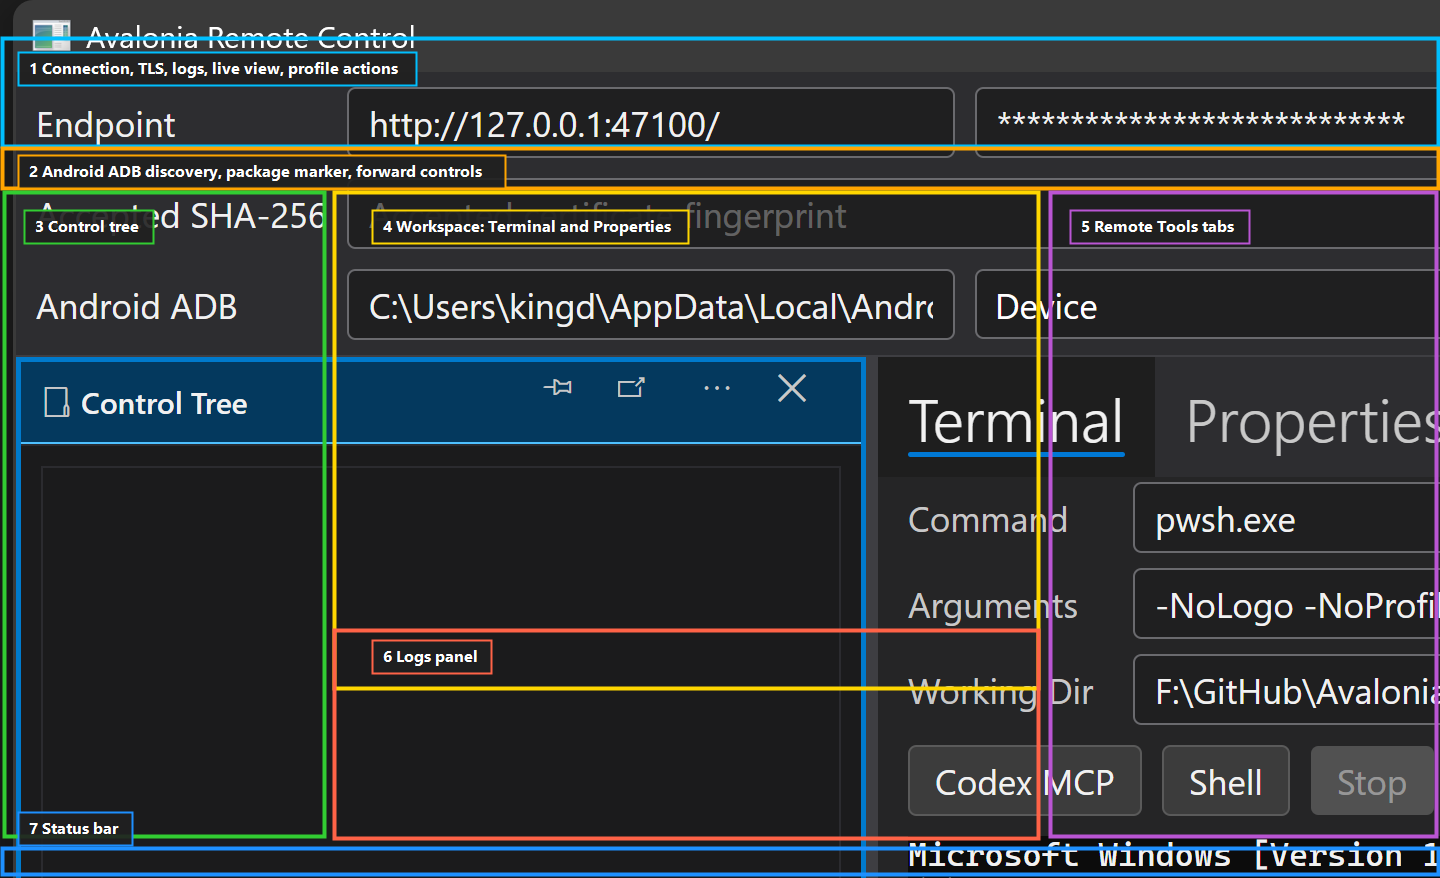
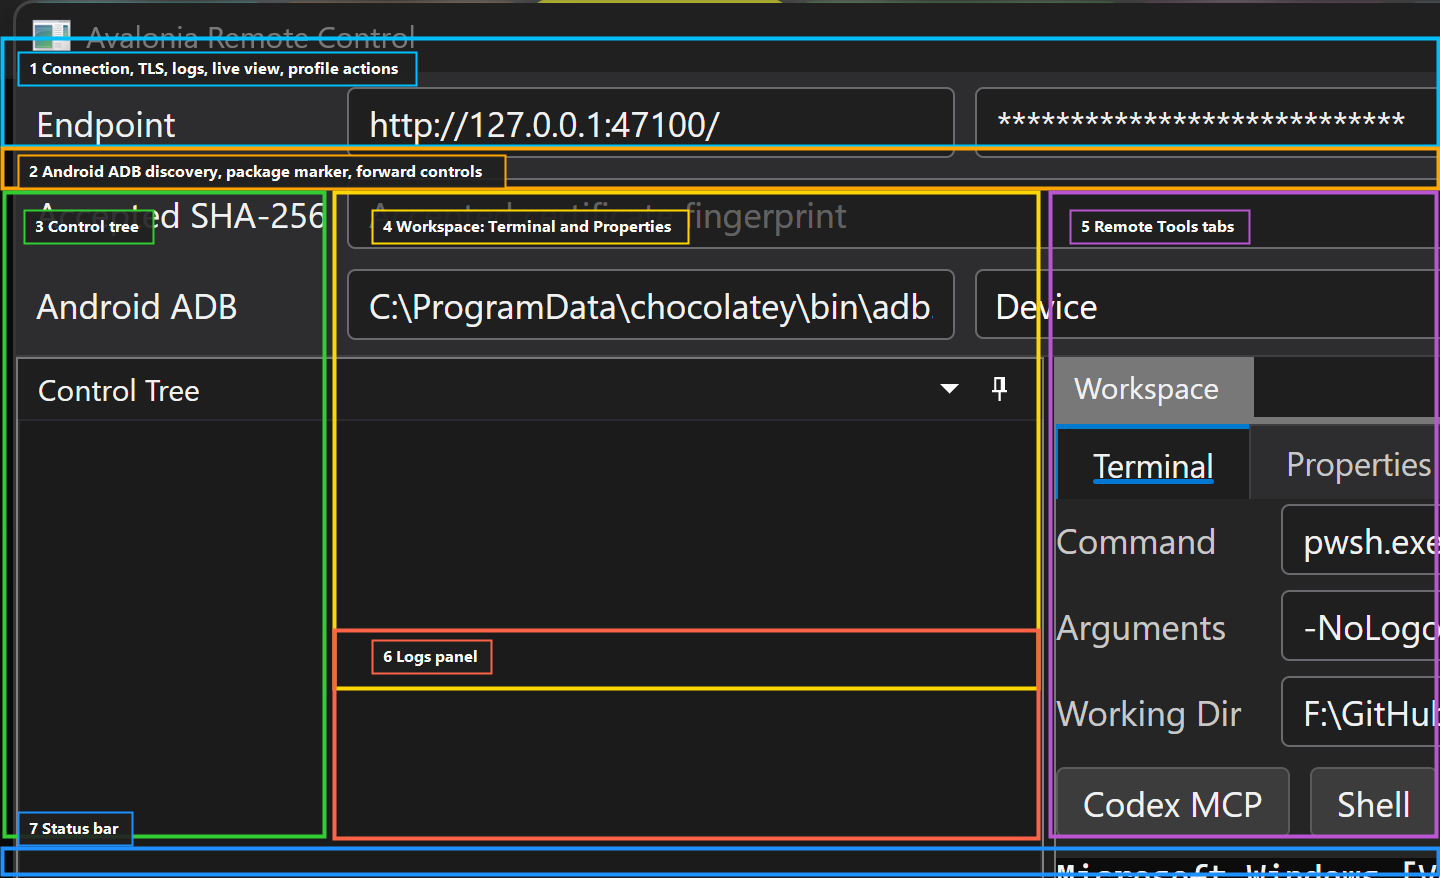
docs(user): document Dock.Avalonia 12 docking UI and refresh screenshots
Update client-tool.md and settings.md to describe the Dock.Avalonia
dockable panes (pin/float/close chrome, drag to rearrange/float/dock,
per-project layout persistence) that replace the removed custom dock
(auto-hide, generic floating tool windows, splitters). Regenerate the
client-tool screenshots against the current Dock build and drop the stale
tool --version pin from install commands.

Changed region(s): [[0.0, 0.3998, 1.0, 1.0], [0.0, 0.0, 1.0, 0.0923], [0.2812, 0.3383, 0.6562, 0.369]]

diff --git a/docs/user/client-tool.md b/docs/user/client-tool.md
@@ -5,7 +5,7 @@
 ## Install
 
 ```powershell
-dotnet tool install --global SharpNinja.Avalonia.RemoteControl.Tool --version 0.7.3
+dotnet tool install --global SharpNinja.Avalonia.RemoteControl.Tool
 ```
 
 ## Launch The Desktop Client
@@ -20,7 +20,7 @@ The client supports:
 - Network/TLS connections.
 - ADB-forwarded Android connections.
 - Tree rendering.
-- Live screenshot rendering in a docked or generic floating tool window when the debuggee enables frame streaming.
+- Live screenshot rendering in a docked or floating live-view pane when the debuggee enables frame streaming.
 - Tree replica rendering in the live window for structural debugging.
 - Pointer, wheel, keyboard, and text input forwarding when the debuggee enables remote input.
 - Selected-node property inspection.
@@ -102,7 +102,7 @@ After a successful connection:
 
 ## Live View
 
-After a successful connection, click Live View to open the live remote UI in a generic floating tool window. To keep the live view inside the main client, open the right-side Live View tab; the same live-view panel can be docked or floated from its tool-window header icons.
+After a successful connection, click Live View to show the Live View pane, docked below Remote Tools on the right. Drag the Live View tab out (or use the pane's float control) to float it in its own window, and drag it back to re-dock; the floating and docked live views share the same rendering and behavior.
 
 The live panel has two modes:
 
@@ -111,7 +111,7 @@ The live panel has two modes:
 
 Clicking a visible control in the live panel selects the matching node in the main Control Tree when the node is present in the latest tree snapshot. The selected live-view overlay outline is highlighted in gold.
 
-The docked and floating live views use the same rendering, overlay, input, and tree-selection behavior. Floating creates a live-view panel in the generic tool-window host without disconnecting the main client.
+The docked and floating live views use the same rendering, overlay, input, and tree-selection behavior. Floating a pane never disconnects the main client.
 
 The overlay checkbox draws the latest tree bounds over either mode. Pointer, wheel, keyboard, and text input are sent in root-relative DIPs so the same live panel works with gRPC and Android bridge sessions.
 
@@ -131,7 +131,7 @@ The client starts streaming `ILogger` entries after a successful connection. Cli
 
 Changing verbosity restarts an active stream with the new minimum level. The log header shows whether the stream is active, how many entries are displayed, and any stream failure.
 
-Click Float, or use the log panel header icon, to open the current log stream in a generic floating tool window. While the floating panel is open, the main window removes the embedded log list so there is only one visible dock owner of the rows. The floating log panel has the same Verbosity selector as the docked log panel; changing either selector updates the shared stream setting and restarts an active stream at the new minimum level. Click the dock icon in the floating tool window or Dock Logs in the main placeholder to return the same shared log view model to the main window. Floating and docking do not start a second stream.
+The Logs pane is docked at the bottom of the workspace. Drag its tab out (or use the pane's float control) to float it in its own window, and drag it back to re-dock. Floating and docking share the same log view model and never start a second stream, and the Verbosity selector continues to control that shared stream.
 
 ## Project Tab
 
@@ -139,6 +139,6 @@ The right-side Project tab shows the active client project, project storage root
 
 ## Dockable Panels
 
-The desktop client uses Visual Studio-like tool-window chrome across the whole shell: compact command bars, dark input fields, tabbed tool panes, darker dock surfaces, draggable pane headers, splitters, thin separators, visible header icons, and a blue accent on active docked surfaces. The styling and behavior are shared by the control tree, property inspector, action/live-view/project pane, log panel, and generic floating tool windows.
+The desktop client docks its panels with [Dock.Avalonia](https://github.com/wieslawsoltes/Dock), styled to match a Visual Studio dark shell: a compact command bar, dark input fields, and dockable tool panes with pin, float, and close controls on their headers. The Control Tree docks to the left, the Workspace document (Terminal and Properties tabs) fills the center above the Logs pane, and Remote Tools sits above Live View on the right.
 
-Each docked surface hosts a custom panel control backed by a view model; the main window is the container that composes panels and coordinates remote-session actions. The main workspace splitters and dock state are persisted in the project file. On startup, the client restores the previous window size, tree pane width, right tool-pane width, log pane height, selected right-side tab, log floating state, dock-pane auto-hide state, and docked live-view preference. If the saved layout had live view docked, the client restores that dock after the next successful connection because live streaming needs an active remote session.
+Drag a pane's tab or header to rearrange it, float it into its own window, or dock it elsewhere, then drag it back to return it to the shell. The full dock layout (pane arrangement, proportions, and floating windows) is saved per project and restored on the next launch, alongside the window size, selected tabs, and docked live-view preference. If the saved layout had live view docked, the client restores that dock after the next successful connection because live streaming needs an active remote session.

diff --git a/docs/user/settings.md b/docs/user/settings.md
@@ -145,7 +145,7 @@ Remote input also depends on this setting. `AllowRemoteInput = true` is not enou
 
 `AllowRemoteFrames`
 
-Enables live PNG frame streaming for the live-view panel, whether it is docked or hosted by a generic floating tool window. The default is false.
+Enables live PNG frame streaming for the live-view panel, whether it is docked or floated into its own window. The default is false.
 
 Frame streaming exposes what the user would see on the target app surface. That may include business data, PII, credentials accidentally shown in UI, map positions, or other sensitive state. Enable it only when the debugging operator is trusted to view the app.
 
@@ -280,7 +280,7 @@ Changing verbosity restarts an active log stream with the new minimum level.
 
 Log floating
 
-The desktop client can open the current log view in a generic floating tool window. The floating panel owns the visible log list while it is open, so the main window shows that logs are floating instead of rendering the same rows twice. Dock returns the same shared log view model to the main window. The stream, verbosity, status text, entry count, and buffered rows are shared, so floating or docking does not restart streaming or duplicate remote log requests.
+The Logs pane can be dragged out of the shell to float in its own window and dragged back to re-dock. The stream, verbosity, status text, entry count, and buffered rows are shared, so floating or docking does not restart streaming or duplicate remote log requests.
 
 Save and Forget
 

diff --git a/docs/user/getting-started.md b/docs/user/getting-started.md
@@ -11,13 +11,13 @@ This guide connects a local Avalonia desktop app to the Avalonia.RemoteControl c
 ## Install The Client Tool
 
 ```powershell
-dotnet tool install --global SharpNinja.Avalonia.RemoteControl.Tool --version 0.7.3
+dotnet tool install --global SharpNinja.Avalonia.RemoteControl.Tool
 ```
 
 Update later with:
 
 ```powershell
-dotnet tool update --global SharpNinja.Avalonia.RemoteControl.Tool --version 0.7.3
+dotnet tool update --global SharpNinja.Avalonia.RemoteControl.Tool
 ```
 
 Verify the command:

diff --git a/docs/user/troubleshooting.md b/docs/user/troubleshooting.md
@@ -7,8 +7,8 @@ For setting-by-setting explanations, see [Settings Guide](settings.md).
 Install or update the .NET tool:
 
 ```powershell
-dotnet tool install --global SharpNinja.Avalonia.RemoteControl.Tool --version 0.7.3
-dotnet tool update --global SharpNinja.Avalonia.RemoteControl.Tool --version 0.7.3
+dotnet tool install --global SharpNinja.Avalonia.RemoteControl.Tool
+dotnet tool update --global SharpNinja.Avalonia.RemoteControl.Tool
 ```
 
 Make sure the .NET global tools directory is on `PATH`.
